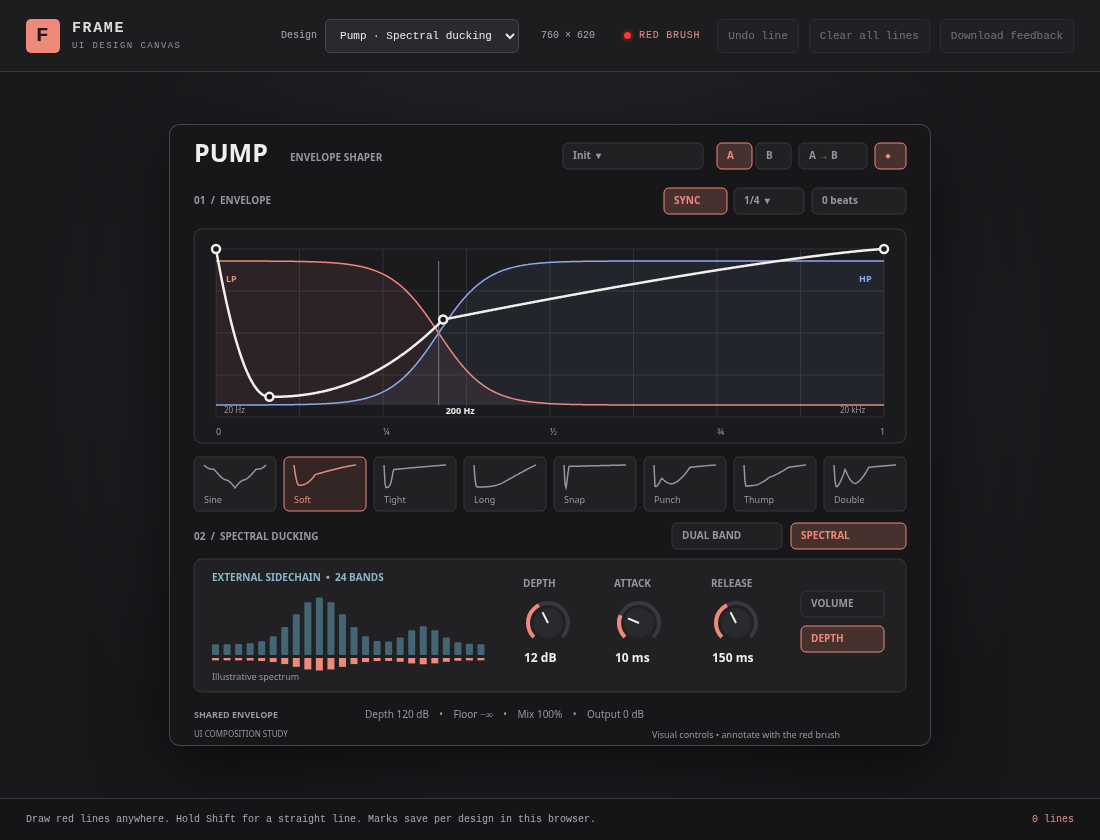
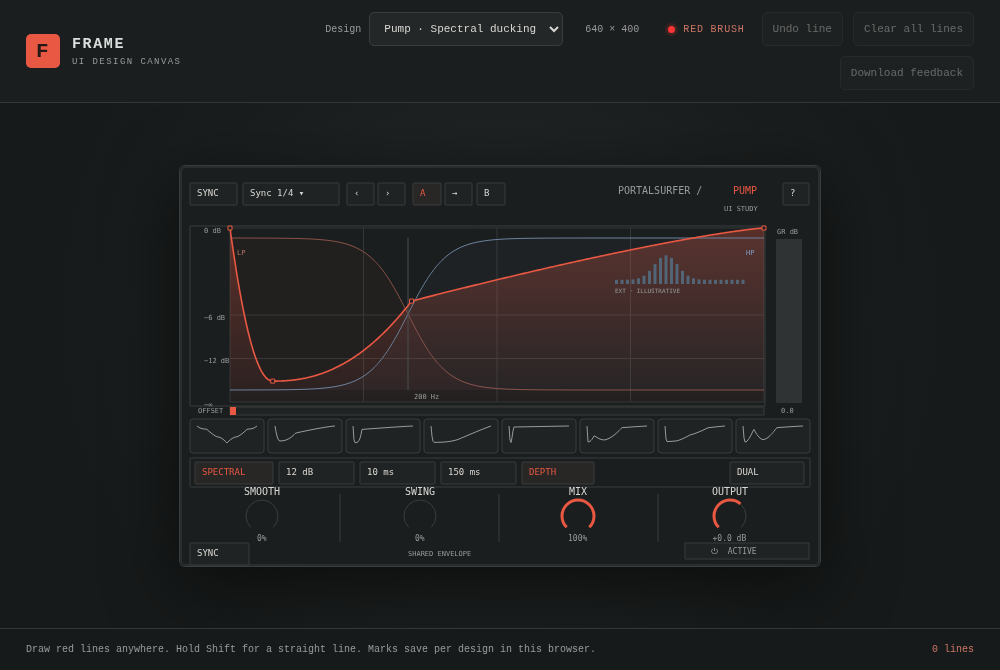
Match Pump reference theme with compact dual-band controls

diff --git a/frame-standalone.html b/frame-standalone.html
@@ -4,41 +4,41 @@
   <meta charset="utf-8">
   <meta name="viewport" content="width=device-width, initial-scale=1">
   <title>Frame — UI design canvas</title>
-  <style>:root { font-family: "SFMono-Regular", Consolas, "Liberation Mono", monospace; color: #d8dfdc; background: #151517; }
+  <style>:root { font-family: "SFMono-Regular", Consolas, "Liberation Mono", monospace; color: #d8dfdc; background: #171a1a; }
 * { box-sizing: border-box; }
 html, body { margin: 0; min-height: 100%; }
 button, select { font: inherit; }
 .app { min-height: 100vh; display: flex; flex-direction: column; }
-.topbar { min-height: 72px; display: flex; align-items: center; justify-content: space-between; gap: 20px; padding: 12px 26px; border-bottom: 1px solid #37373c; background: #1d1d20; }
+.topbar { min-height: 72px; display: flex; align-items: center; justify-content: space-between; gap: 20px; padding: 12px 26px; border-bottom: 1px solid #333737; background: #1b1e1e; }
 .brand, .tools { display: flex; align-items: center; }
 .brand { gap: 12px; white-space: nowrap; letter-spacing: .1em; }
-.brand-mark { display: grid; place-items: center; width: 34px; height: 34px; border-radius: 5px; background: #ef897a; color: #241918; font-size: 21px; font-weight: 700; }
+.brand-mark { display: grid; place-items: center; width: 34px; height: 34px; border-radius: 5px; background: #e95843; color: #241918; font-size: 21px; font-weight: 700; }
 .brand strong { display: block; font-size: 15px; }
-.brand small { display: block; margin-top: 4px; color: #93939b; font-size: 9px; letter-spacing: .16em; }
+.brand small { display: block; margin-top: 4px; color: #999b9a; font-size: 9px; letter-spacing: .16em; }
 .tools { gap: 10px; flex-wrap: wrap; justify-content: flex-end; }
-.design-choice, .design-size { color: #aaaab2; font-size: 10px; white-space: nowrap; }
+.design-choice, .design-size { color: #999b9a; font-size: 10px; white-space: nowrap; }
 .design-choice { display: flex; align-items: center; gap: 8px; }
 .design-size { min-width: 78px; text-align: center; }
-select, .tools button { min-height: 34px; padding: 7px 10px; border: 1px solid #45454c; border-radius: 5px; background: #29292e; color: #eeeae6; font-size: 11px; }
+select, .tools button { min-height: 34px; padding: 7px 10px; border: 1px solid #3a3d3d; border-radius: 5px; background: #242727; color: #d8d7d3; font-size: 11px; }
 select { min-width: 142px; cursor: pointer; }
 .tools button { cursor: pointer; }
-.tools button:hover:not(:disabled), select:hover { background: #35353b; border-color: #ef897a; }
+.tools button:hover:not(:disabled), select:hover { background: #303333; border-color: #e95843; }
 .tools button:disabled { opacity: .4; cursor: default; }
-.brush-status { display: flex; align-items: center; gap: 8px; margin: 0 7px; color: #e39187; font-size: 10px; white-space: nowrap; letter-spacing: .08em; }
+.brush-status { display: flex; align-items: center; gap: 8px; margin: 0 7px; color: #cc7666; font-size: 10px; white-space: nowrap; letter-spacing: .08em; }
 .red-dot { width: 7px; height: 7px; border-radius: 50%; background: #ff3434; box-shadow: 0 0 0 3px #ff343425; }
-.stage { position: relative; display: flex; align-items: center; justify-content: center; flex: 1; min-height: 400px; padding: 30px; background: radial-gradient(circle at 50% 40%, #29292e, #18181b 75%); overflow: hidden; }
-.board { position: relative; flex: none; background: #202024; box-shadow: 0 0 0 1px #45454c, 0 18px 70px #0009; overflow: hidden; }
+.stage { position: relative; display: flex; align-items: center; justify-content: center; flex: 1; min-height: 400px; padding: 30px; background: radial-gradient(circle at 50% 40%, #242727, #171a1a 75%); overflow: hidden; }
+.board { position: relative; flex: none; background: #1b1e1e; box-shadow: 0 0 0 1px #3a3d3d, 0 18px 70px #0009; overflow: hidden; }
 .design, .brush { position: absolute; display: block; inset: 0; width: 100%; height: 100%; }
 .design { pointer-events: none; user-select: none; }
 .brush { z-index: 2; cursor: crosshair; touch-action: none; user-select: none; }
 .brush path { fill: none; stroke: #ff3434; stroke-width: 3; stroke-linecap: round; stroke-linejoin: round; }
-footer { min-height: 42px; display: flex; align-items: center; justify-content: space-between; gap: 16px; padding: 8px 26px; border-top: 1px solid #37373c; color: #aaaab2; font-size: 10px; line-height: 1.4; }
-#mark-count { color: #e39187; white-space: nowrap; }
+footer { min-height: 42px; display: flex; align-items: center; justify-content: space-between; gap: 16px; padding: 8px 26px; border-top: 1px solid #333737; color: #999b9a; font-size: 10px; line-height: 1.4; }
+#mark-count { color: #cc7666; white-space: nowrap; }
 @media (max-width: 920px) { .topbar { align-items: flex-start; flex-direction: column; } .tools { justify-content: flex-start; } }
 @media (max-width: 600px) { .topbar { padding: 13px; } .stage { min-height: 320px; padding: 15px; } footer { padding: 8px 13px; } }
 
-.board { border-radius: 10px; }
-button:focus-visible, select:focus-visible { outline: 2px solid #ef897a; outline-offset: 3px; }
+.board { border-radius: 5px; }
+button:focus-visible, select:focus-visible { outline: 2px solid #e95843; outline-offset: 3px; }
 </style>
   
   
@@ -85,45 +85,52 @@ button:focus-visible, select:focus-visible { outline: 2px solid #ef897a; outline
   window.Frame = {register, designs};
 })();
 </script>
-<script>// Pump composition study. Canvas controls are review artwork; use Frame's brush for feedback.
+<script>// Pump composition study; Frame's brush is the interaction surface.
 (() => {
-  const C = {bg:'#171719',panel:'#212124',line:'#39393d',muted:'#96969f',text:'#f1efec',accent:'#ef897a',blue:'#8cb7c9'};
-  function rect(c,x,y,w,h,r=8,fill=C.panel,stroke=C.line){c.beginPath();c.roundRect(x,y,w,h,r);c.fillStyle=fill;c.fill();if(stroke){c.strokeStyle=stroke;c.lineWidth=1;c.stroke();}}
-  function text(c,t,x,y,size=12,color=C.text,weight=400){c.fillStyle=color;c.font=`${weight} ${size}px system-ui`;c.textBaseline='middle';c.fillText(t,x,y);}
-  function pill(c,t,x,y,w,active=false){rect(c,x,y,w,26,5,active?'#47312f':C.panel,active?C.accent:C.line);text(c,t,x+10,y+13,10,active?C.accent:C.muted,600);}
-  function knob(c,label,value,x,y,a=.7){text(c,label,x-25,y-39,10,C.muted,600);c.strokeStyle=C.line;c.lineWidth=4;c.beginPath();c.arc(x,y,20,.75*Math.PI,2.25*Math.PI);c.stroke();c.strokeStyle=C.accent;c.beginPath();c.arc(x,y,20,.75*Math.PI,(.75+1.5*a)*Math.PI);c.stroke();c.fillStyle='#29292e';c.beginPath();c.arc(x,y,15,0,Math.PI*2);c.fill();c.strokeStyle=C.text;c.lineWidth=2;c.beginPath();c.moveTo(x,y);c.lineTo(x+12*Math.cos((.75+1.5*a)*Math.PI),y+12*Math.sin((.75+1.5*a)*Math.PI));c.stroke();text(c,value,x-24,y+36,12,C.text,600);}
-  function slider(c,label,value,x,y,w,color){
-    text(c,label,x,y-23,10,color,650);text(c,Math.round(value*100)+'%',x+w-32,y-23,11,C.text,650);
-    rect(c,x,y-3,w,6,3,'#39393f',null);rect(c,x,y-3,w*value,6,3,color,null);
-    rect(c,x+value*w-5,y-9,10,18,4,C.text,color);
-    text(c,'0',x,y+19,8,C.muted);text(c,'100',x+w-17,y+19,8,C.muted);
-  }
+  const C={bg:'#1b1e1e',panel:'#202323',line:'#3a3d3d',muted:'#999b9a',text:'#d8d7d3',accent:'#e95843',blue:'#809ec6'};
+  function rect(c,x,y,w,h,r=2,fill=C.panel,stroke=C.line){c.beginPath();c.roundRect(x,y,w,h,r);c.fillStyle=fill;c.fill();if(stroke){c.strokeStyle=stroke;c.lineWidth=1;c.stroke();}}
+  function text(c,t,x,y,size=10,color=C.text,weight=400){c.fillStyle=color;c.font=`${weight} ${size}px ui-monospace, SFMono-Regular, monospace`;c.textBaseline='middle';c.fillText(t,x,y);}
+  function button(c,t,x,y,w,active=false){rect(c,x,y,w,22,1,active?'#282725':C.panel);text(c,t,x+7,y+11,9,active?C.accent:C.text);}
+  function knob(c,label,value,x,y,a=0){text(c,label,x-label.length*3,y-24,10);c.strokeStyle=C.line;c.lineWidth=1;c.beginPath();c.arc(x,y,16,.75*Math.PI,2.25*Math.PI);c.stroke();if(a>0){c.strokeStyle=C.accent;c.lineWidth=3;c.beginPath();c.arc(x,y,16,.75*Math.PI,(.75+1.5*a)*Math.PI);c.stroke();}text(c,value,x-value.length*2.5,y+23,8,C.muted);}
+  function mixRow(c,label,x,y,value,color){text(c,label,x,y,9,color,600);rect(c,x+23,y-2,118,4,2,'#353838',null);if(value>0)rect(c,x+23,y-2,118*value,4,2,color,null);text(c,Math.round(value*100)+'%',x+149,y,8);rect(c,x+183,y-6,30,12,1,C.panel);text(c,'SOLO',x+186,y,6,C.muted);}
   const shapes=[["Sine", [[0.0, 1.0], [0.16, 0.82], [0.34, 0.36], [0.5, 0.0], [0.66, 0.36], [0.84, 0.82], [1.0, 1.0]], [-0.55, -0.1, 0.25, -0.25, 0.1, 0.55]], ["Soft", [[0.0, 1.0], [0.08, 0.12], [0.34, 0.58], [1.0, 1.0]], [-0.35, 0.42, -0.08]], ["Tight", [[0.0, 1.0], [0.035, 0.02], [0.15, 0.8], [1.0, 1.0]], [-0.58, 0.72, -0.04]], ["Long", [[0.0, 1.0], [0.05, 0.04], [0.46, 0.22], [1.0, 1.0]], [-0.48, 0.58, -0.02]], ["Snap", [[0.0, 1.0], [0.012, 0.22], [0.03, 0.0], [0.075, 0.94], [1.0, 1.0]], [-0.08, 0.02, 0.12, 0.0]], ["Punch", [[0.0, 1.0], [0.02, 0.06], [0.12, 0.44], [0.28, 0.18], [0.58, 0.9], [1.0, 1.0]], [-0.52, 0.3, -0.24, 0.22, -0.04]], ["Thump", [[0.0, 1.0], [0.03, 0.08], [0.18, 0.12], [0.42, 0.48], [0.72, 0.9], [1.0, 1.0]], [-0.35, 0.05, 0.12, 0.08, -0.02]], ["Double", [[0.0, 1.0], [0.04, 0.05], [0.18, 0.82], [0.34, 0.2], [0.56, 0.9], [1.0, 1.0]], [-0.48, 0.18, -0.28, 0.2, -0.05]]];
-  function sample(shape,x){const nodes=shape[1], ts=shape[2];let i=0;while(i<nodes.length-2&&x>nodes[i+1][0])i++;const l=nodes[i],r=nodes[i+1];let t=Math.max(0,Math.min(1,(x-l[0])/(r[0]-l[0])));const tension=ts[i]||0; const power=1+Math.abs(tension)*3; t=tension>=0?Math.pow(t,power):1-Math.pow(1-t,power);return l[1]+(r[1]-l[1])*t;}
+  function sample(shape,x){const n=shape[1],ts=shape[2];let i=0;while(i<n.length-2&&x>n[i+1][0])i++;const l=n[i],r=n[i+1];let t=Math.max(0,Math.min(1,(x-l[0])/(r[0]-l[0])));const tension=ts[i]||0,power=1+Math.abs(tension)*3;t=tension>=0?Math.pow(t,power):1-Math.pow(1-t,power);return l[1]+(r[1]-l[1])*t;}
   function curve(c,shape,x,y,w,h){c.beginPath();for(let i=0;i<=w;i++){const yy=y+(1-sample(shape,i/w))*h;i?c.lineTo(x+i,yy):c.moveTo(x,yy);}c.stroke();}
-  function crossover(c,x,y,w,h,hz=200,slope=24){
-    const low=C.accent,high='#8caaeb';
-    const px=x,py=y+12,pw=w,ph=h-24;
-    const cutoff=Math.tan(Math.PI*hz/48000);
-    const magnitude=(t,band)=>{const f=20*Math.pow(1000,t),r=Math.tan(Math.PI*f/48000)/cutoff,p=Math.pow(r,slope===12?2:4);return band?p/(1+p):1/(1+p);};
+  function crossover(c,x,y,w,h){
+    const py=y+10,ph=h-22,cutoff=Math.tan(Math.PI*200/48000);
     for(let band=0;band<2;band++){
-      c.beginPath();c.moveTo(px,py+ph);
-      for(let i=0;i<=pw;i++)c.lineTo(px+i,py+(1-magnitude(i/pw,band))*ph);
-      c.lineTo(px+pw,py+ph);c.closePath();c.fillStyle=band?'rgba(140,170,235,.08)':'rgba(239,137,122,.08)';c.fill();
-      c.beginPath();for(let i=0;i<=pw;i++){const yy=py+(1-magnitude(i/pw,band))*ph;i?c.lineTo(px+i,yy):c.moveTo(px+i,yy);}c.strokeStyle=band?high:low;c.lineWidth=1.5;c.stroke();
+      const points=[];for(let i=0;i<=w;i++){const f=20*Math.pow(1000,i/w),r=Math.tan(Math.PI*f/48000)/cutoff,p=Math.pow(r,4),gain=band?p/(1+p):1/(1+p);points.push([x+i,py+(1-gain)*ph]);}
+      c.beginPath();c.moveTo(x,py+ph);for(const q of points)c.lineTo(...q);c.lineTo(x+w,py+ph);c.closePath();c.fillStyle=band?'rgba(128,158,198,.04)':'rgba(233,88,67,.04)';c.fill();
+      c.beginPath();for(let i=0;i<points.length;i++)i?c.lineTo(...points[i]):c.moveTo(...points[i]);c.strokeStyle=band?'#6b819d':'#8a5148';c.lineWidth=1;c.stroke();
     }
-    const marker=px+Math.log(hz/20)/Math.log(1000)*pw;
-    c.strokeStyle='#777780';c.lineWidth=1;c.beginPath();c.moveTo(marker,py);c.lineTo(marker,py+ph);c.stroke();
-    text(c,'LP',x+10,y+30,9,low,650);text(c,'HP',x+w-25,y+30,9,high,650);text(c,'20 Hz',x+8,y+h-6,8,C.muted);text(c,hz+' Hz',Math.max(x+48,Math.min(x+w-90,marker+7)),y+h-6,9,C.text,600);text(c,'20 kHz',x+w-44,y+h-6,8,C.muted);
+    const marker=x+w/3;c.strokeStyle='#4a4f4e';c.beginPath();c.moveTo(marker,py);c.lineTo(marker,py+ph);c.stroke();text(c,'LP',x+7,y+25,7,'#b67668');text(c,'HP',x+w-18,y+25,7,C.blue);text(c,'200 Hz',marker+6,y+h-5,7,C.muted);
   }
-  function shell(c,mode){c.fillStyle=C.bg;c.fillRect(0,0,760,620);text(c,'PUMP',24,30,25,C.text,750);text(c,'ENVELOPE SHAPER',120,33,10,C.muted,600);pill(c,'Init  ▾',393,18,140);pill(c,'A',547,18,35,true);pill(c,'B',586,18,35);pill(c,'A → B',629,18,68);pill(c,'●',705,18,31,true);text(c,'01  /  ENVELOPE',24,76,10,C.muted,600);pill(c,'SYNC',494,63,63,true);pill(c,'1/4  ▾',564,63,70);pill(c,'0 beats',642,63,94);
-    rect(c,24,104,712,214,8,'#1b1b1e');const x=46,y=124,w=668,h=168;c.strokeStyle='#303035';c.lineWidth=1;for(let i=0;i<=8;i++){c.beginPath();c.moveTo(x+w*i/8,y);c.lineTo(x+w*i/8,y+h);c.stroke();}for(let i=0;i<=4;i++){c.beginPath();c.moveTo(x,y+h*i/4);c.lineTo(x+w,y+h*i/4);c.stroke();}crossover(c,x,y,w,h);c.strokeStyle=C.text;c.lineWidth=2.5;curve(c,shapes[1],x,y,w,h);for(const n of shapes[1][1]){c.fillStyle=C.bg;c.beginPath();c.arc(x+n[0]*w,y+(1-n[1])*h,4,0,Math.PI*2);c.fill();c.stroke();}text(c,'0',x,307,9,C.muted);text(c,'¼',x+w/4,307,9,C.muted);text(c,'½',x+w/2,307,9,C.muted);text(c,'¾',x+w*3/4,307,9,C.muted);text(c,'1',x+w-4,307,9,C.muted);
-    shapes.forEach((s,i)=>{const sx=24+i*90;rect(c,sx,332,82,54,5,i===1?'#332625':C.panel,i===1?C.accent:C.line);c.strokeStyle=i===1?C.accent:C.muted;c.lineWidth=1.5;curve(c,s,sx+10,340,62,23);text(c,s[0],sx+10,375,9,i===1?C.accent:C.muted);});
-    text(c,mode==='dual'?'02  /  DUAL BAND':'02  /  SPECTRAL DUCKING',24,412,10,C.muted,600);pill(c,'DUAL BAND',502,398,110,mode==='dual');pill(c,'SPECTRAL',621,398,115,mode==='spectral');
-    text(c,'SHARED ENVELOPE',24,590,9,C.muted,600);text(c,'Depth 120 dB    •    Floor −∞    •    Mix 100%    •    Output 0 dB',195,590,10,C.muted);text(c,'UI COMPOSITION STUDY',24,610,8,C.muted);text(c,'Visual controls • annotate with the red brush',482,610,9,C.muted);
+  function shell(c,mode){
+    c.fillStyle=C.bg;c.fillRect(0,0,640,400);rect(c,1,1,638,398,5,C.bg,C.line);
+    button(c,'SYNC',10,17,47);button(c,'Sync 1/4 ▾',63,17,96);button(c,'‹',167,17,27);button(c,'›',198,17,27);button(c,'A',233,17,28,true);button(c,'→',265,17,27);button(c,'B',297,17,28);
+    text(c,'PORTALSURFER /',438,25,10,C.muted);text(c,'PUMP',553,25,10,C.accent);text(c,'UI STUDY',544,43,7,C.muted);button(c,'?',603,17,26);
+    const x=50,y=62,w=534,h=174;rect(c,10,60,575,180,0,C.bg,C.line);
+    c.strokeStyle='#333737';c.lineWidth=1;for(let i=0;i<=4;i++){c.beginPath();c.moveTo(x+w*i/4,y);c.lineTo(x+w*i/4,y+h);c.stroke();}for(const level of [0,.5,.75,1]){c.beginPath();c.moveTo(x,y+h*level);c.lineTo(x+w,y+h*level);c.stroke();}
+    const gradient=c.createLinearGradient(0,y,0,y+h);gradient.addColorStop(0,'rgba(233,88,67,.30)');gradient.addColorStop(1,'rgba(233,88,67,.03)');c.beginPath();c.moveTo(x,y+h);for(let i=0;i<=w;i++)c.lineTo(x+i,y+(1-sample(shapes[1],i/w))*h);c.lineTo(x+w,y+h);c.closePath();c.fillStyle=gradient;c.fill();
+    crossover(c,x,y,w,h);c.strokeStyle=C.accent;c.lineWidth=1.6;curve(c,shapes[1],x,y,w,h);for(const n of shapes[1][1])rect(c,x+n[0]*w-2,y+(1-n[1])*h-2,4,4,0,C.bg,C.accent);
+    for(const [label,level] of [['0 dB',0],['−6 dB',.5],['−12 dB',.75],['−∞',1]])text(c,label,24,y+level*h+3,7,C.muted);
+    text(c,'OFFSET',18,245,7,C.muted);rect(c,50,241,534,8,0,C.panel);c.fillStyle=C.accent;c.fillRect(50,241,6,8);
+    text(c,'GR dB',597,66,7,C.muted);rect(c,596,73,26,164,0,'#303333',null);text(c,'0.0',601,245,7,C.muted);
+    shapes.forEach((s,i)=>{const sx=10+i*78;rect(c,sx,253,74,34,3,C.panel);c.strokeStyle=C.muted;c.lineWidth=1;curve(c,s,sx+7,260,60,17);});
+    rect(c,10,292,620,29,1,C.bg,C.line);
+    if(mode==='dual'){
+      button(c,'DUAL',15,296,43,true);button(c,'200 Hz',64,296,78);button(c,'24 dB/oct',148,296,74);
+      mixRow(c,'LP',235,301,1,C.accent);mixRow(c,'HP',235,314,1,C.blue);button(c,'SPECTRAL',544,296,80);
+    }else{
+      button(c,'SPECTRAL',15,296,78,true);button(c,'12 dB',99,296,75);button(c,'10 ms',180,296,75);button(c,'150 ms',261,296,75);button(c,'DEPTH',342,296,72,true);button(c,'DUAL',550,296,74);
+      for(let i=0;i<24;i++){const v=.12+.7*Math.exp(-Math.pow((i-9)/3,2));c.fillStyle='#526576';c.fillRect(435+i*5.5,83+35*(1-v),3,35*v);}text(c,'EXT · ILLUSTRATIVE',435,125,6,C.muted);
+    }
+    for(const dx of [160,319,478]){c.strokeStyle=C.line;c.beginPath();c.moveTo(dx,328);c.lineTo(dx,376);c.stroke();}
+    knob(c,'SMOOTH','0%',82,350);knob(c,'SWING','0%',240,350);knob(c,'MIX','100%',398,350,1);knob(c,'OUTPUT','+0.0 dB',550,350,.65);
+    button(c,'SYNC',10,377,59);text(c,'SHARED ENVELOPE',228,388,7,C.muted);rect(c,505,377,124,16,0,C.panel);text(c,'⏻  ACTIVE',531,386,8,C.muted);
   }
-  Frame.register({id:'pump',name:'Pump · Dual band',width:760,height:620,paint(c){shell(c,'dual');rect(c,24,434,712,133);text(c,'LOW',43,456,10,C.accent,700);text(c,'HIGH',633,456,10,'#8caaeb',700);text(c,'One crossover · minimum phase · zero latency',43,544,10,C.muted);pill(c,'SOLO',41,476,54);slider(c,'LP MIX',1,115,498,106,C.accent);knob(c,'CROSSOVER','200 Hz',296,498,.34);pill(c,'12',356,474,38);pill(c,'24 dB/oct',400,474,78,true);slider(c,'HP MIX',1,499,498,106,'#8caaeb');pill(c,'SOLO',633,476,54);}});
-  Frame.register({id:'pump-spectral',name:'Pump · Spectral ducking',width:760,height:620,paint(c){shell(c,'spectral');rect(c,24,434,712,133);text(c,'EXTERNAL SIDECHAIN  •  24 BANDS',42,453,10,C.blue,650);const x=42,y=470,w=277,h=60;for(let i=0;i<24;i++){const v=.18+.78*Math.exp(-Math.pow((i-9)/3,2))+.3*Math.exp(-Math.pow((i-18)/2,2));rect(c,x+i*w/24,y+h-v*h,7,v*h,1,'#436574',null);c.fillStyle=C.accent;c.fillRect(x+i*w/24,y+h+3,7,Math.min(13,v*13));}text(c,'Illustrative spectrum',42,552,9,C.muted);knob(c,'DEPTH','12 dB',378,498,.4);knob(c,'ATTACK','10 ms',469,498,.25);knob(c,'RELEASE','150 ms',566,498,.4);pill(c,'VOLUME',631,466,83);pill(c,'DEPTH',631,501,83,true);}});
+  Frame.register({id:'pump',name:'Pump · Dual band',width:640,height:400,paint(c){shell(c,'dual');}});
+  Frame.register({id:'pump-spectral',name:'Pump · Spectral ducking',width:640,height:400,paint(c){shell(c,'spectral');}});
 })();
 </script>
 <script>// A neutral starting point for a new application interface.

diff --git a/examples/pump.js b/examples/pump.js
@@ -1,40 +1,47 @@
-// Pump composition study. Canvas controls are review artwork; use Frame's brush for feedback.
+// Pump composition study; Frame's brush is the interaction surface.
 (() => {
-  const C = {bg:'#171719',panel:'#212124',line:'#39393d',muted:'#96969f',text:'#f1efec',accent:'#ef897a',blue:'#8cb7c9'};
-  function rect(c,x,y,w,h,r=8,fill=C.panel,stroke=C.line){c.beginPath();c.roundRect(x,y,w,h,r);c.fillStyle=fill;c.fill();if(stroke){c.strokeStyle=stroke;c.lineWidth=1;c.stroke();}}
-  function text(c,t,x,y,size=12,color=C.text,weight=400){c.fillStyle=color;c.font=`${weight} ${size}px system-ui`;c.textBaseline='middle';c.fillText(t,x,y);}
-  function pill(c,t,x,y,w,active=false){rect(c,x,y,w,26,5,active?'#47312f':C.panel,active?C.accent:C.line);text(c,t,x+10,y+13,10,active?C.accent:C.muted,600);}
-  function knob(c,label,value,x,y,a=.7){text(c,label,x-25,y-39,10,C.muted,600);c.strokeStyle=C.line;c.lineWidth=4;c.beginPath();c.arc(x,y,20,.75*Math.PI,2.25*Math.PI);c.stroke();c.strokeStyle=C.accent;c.beginPath();c.arc(x,y,20,.75*Math.PI,(.75+1.5*a)*Math.PI);c.stroke();c.fillStyle='#29292e';c.beginPath();c.arc(x,y,15,0,Math.PI*2);c.fill();c.strokeStyle=C.text;c.lineWidth=2;c.beginPath();c.moveTo(x,y);c.lineTo(x+12*Math.cos((.75+1.5*a)*Math.PI),y+12*Math.sin((.75+1.5*a)*Math.PI));c.stroke();text(c,value,x-24,y+36,12,C.text,600);}
-  function slider(c,label,value,x,y,w,color){
-    text(c,label,x,y-23,10,color,650);text(c,Math.round(value*100)+'%',x+w-32,y-23,11,C.text,650);
-    rect(c,x,y-3,w,6,3,'#39393f',null);rect(c,x,y-3,w*value,6,3,color,null);
-    rect(c,x+value*w-5,y-9,10,18,4,C.text,color);
-    text(c,'0',x,y+19,8,C.muted);text(c,'100',x+w-17,y+19,8,C.muted);
-  }
+  const C={bg:'#1b1e1e',panel:'#202323',line:'#3a3d3d',muted:'#999b9a',text:'#d8d7d3',accent:'#e95843',blue:'#809ec6'};
+  function rect(c,x,y,w,h,r=2,fill=C.panel,stroke=C.line){c.beginPath();c.roundRect(x,y,w,h,r);c.fillStyle=fill;c.fill();if(stroke){c.strokeStyle=stroke;c.lineWidth=1;c.stroke();}}
+  function text(c,t,x,y,size=10,color=C.text,weight=400){c.fillStyle=color;c.font=`${weight} ${size}px ui-monospace, SFMono-Regular, monospace`;c.textBaseline='middle';c.fillText(t,x,y);}
+  function button(c,t,x,y,w,active=false){rect(c,x,y,w,22,1,active?'#282725':C.panel);text(c,t,x+7,y+11,9,active?C.accent:C.text);}
+  function knob(c,label,value,x,y,a=0){text(c,label,x-label.length*3,y-24,10);c.strokeStyle=C.line;c.lineWidth=1;c.beginPath();c.arc(x,y,16,.75*Math.PI,2.25*Math.PI);c.stroke();if(a>0){c.strokeStyle=C.accent;c.lineWidth=3;c.beginPath();c.arc(x,y,16,.75*Math.PI,(.75+1.5*a)*Math.PI);c.stroke();}text(c,value,x-value.length*2.5,y+23,8,C.muted);}
+  function mixRow(c,label,x,y,value,color){text(c,label,x,y,9,color,600);rect(c,x+23,y-2,118,4,2,'#353838',null);if(value>0)rect(c,x+23,y-2,118*value,4,2,color,null);text(c,Math.round(value*100)+'%',x+149,y,8);rect(c,x+183,y-6,30,12,1,C.panel);text(c,'SOLO',x+186,y,6,C.muted);}
   const shapes=[["Sine", [[0.0, 1.0], [0.16, 0.82], [0.34, 0.36], [0.5, 0.0], [0.66, 0.36], [0.84, 0.82], [1.0, 1.0]], [-0.55, -0.1, 0.25, -0.25, 0.1, 0.55]], ["Soft", [[0.0, 1.0], [0.08, 0.12], [0.34, 0.58], [1.0, 1.0]], [-0.35, 0.42, -0.08]], ["Tight", [[0.0, 1.0], [0.035, 0.02], [0.15, 0.8], [1.0, 1.0]], [-0.58, 0.72, -0.04]], ["Long", [[0.0, 1.0], [0.05, 0.04], [0.46, 0.22], [1.0, 1.0]], [-0.48, 0.58, -0.02]], ["Snap", [[0.0, 1.0], [0.012, 0.22], [0.03, 0.0], [0.075, 0.94], [1.0, 1.0]], [-0.08, 0.02, 0.12, 0.0]], ["Punch", [[0.0, 1.0], [0.02, 0.06], [0.12, 0.44], [0.28, 0.18], [0.58, 0.9], [1.0, 1.0]], [-0.52, 0.3, -0.24, 0.22, -0.04]], ["Thump", [[0.0, 1.0], [0.03, 0.08], [0.18, 0.12], [0.42, 0.48], [0.72, 0.9], [1.0, 1.0]], [-0.35, 0.05, 0.12, 0.08, -0.02]], ["Double", [[0.0, 1.0], [0.04, 0.05], [0.18, 0.82], [0.34, 0.2], [0.56, 0.9], [1.0, 1.0]], [-0.48, 0.18, -0.28, 0.2, -0.05]]];
-  function sample(shape,x){const nodes=shape[1], ts=shape[2];let i=0;while(i<nodes.length-2&&x>nodes[i+1][0])i++;const l=nodes[i],r=nodes[i+1];let t=Math.max(0,Math.min(1,(x-l[0])/(r[0]-l[0])));const tension=ts[i]||0; const power=1+Math.abs(tension)*3; t=tension>=0?Math.pow(t,power):1-Math.pow(1-t,power);return l[1]+(r[1]-l[1])*t;}
+  function sample(shape,x){const n=shape[1],ts=shape[2];let i=0;while(i<n.length-2&&x>n[i+1][0])i++;const l=n[i],r=n[i+1];let t=Math.max(0,Math.min(1,(x-l[0])/(r[0]-l[0])));const tension=ts[i]||0,power=1+Math.abs(tension)*3;t=tension>=0?Math.pow(t,power):1-Math.pow(1-t,power);return l[1]+(r[1]-l[1])*t;}
   function curve(c,shape,x,y,w,h){c.beginPath();for(let i=0;i<=w;i++){const yy=y+(1-sample(shape,i/w))*h;i?c.lineTo(x+i,yy):c.moveTo(x,yy);}c.stroke();}
-  function crossover(c,x,y,w,h,hz=200,slope=24){
-    const low=C.accent,high='#8caaeb';
-    const px=x,py=y+12,pw=w,ph=h-24;
-    const cutoff=Math.tan(Math.PI*hz/48000);
-    const magnitude=(t,band)=>{const f=20*Math.pow(1000,t),r=Math.tan(Math.PI*f/48000)/cutoff,p=Math.pow(r,slope===12?2:4);return band?p/(1+p):1/(1+p);};
+  function crossover(c,x,y,w,h){
+    const py=y+10,ph=h-22,cutoff=Math.tan(Math.PI*200/48000);
     for(let band=0;band<2;band++){
-      c.beginPath();c.moveTo(px,py+ph);
-      for(let i=0;i<=pw;i++)c.lineTo(px+i,py+(1-magnitude(i/pw,band))*ph);
-      c.lineTo(px+pw,py+ph);c.closePath();c.fillStyle=band?'rgba(140,170,235,.08)':'rgba(239,137,122,.08)';c.fill();
-      c.beginPath();for(let i=0;i<=pw;i++){const yy=py+(1-magnitude(i/pw,band))*ph;i?c.lineTo(px+i,yy):c.moveTo(px+i,yy);}c.strokeStyle=band?high:low;c.lineWidth=1.5;c.stroke();
+      const points=[];for(let i=0;i<=w;i++){const f=20*Math.pow(1000,i/w),r=Math.tan(Math.PI*f/48000)/cutoff,p=Math.pow(r,4),gain=band?p/(1+p):1/(1+p);points.push([x+i,py+(1-gain)*ph]);}
+      c.beginPath();c.moveTo(x,py+ph);for(const q of points)c.lineTo(...q);c.lineTo(x+w,py+ph);c.closePath();c.fillStyle=band?'rgba(128,158,198,.04)':'rgba(233,88,67,.04)';c.fill();
+      c.beginPath();for(let i=0;i<points.length;i++)i?c.lineTo(...points[i]):c.moveTo(...points[i]);c.strokeStyle=band?'#6b819d':'#8a5148';c.lineWidth=1;c.stroke();
     }
-    const marker=px+Math.log(hz/20)/Math.log(1000)*pw;
-    c.strokeStyle='#777780';c.lineWidth=1;c.beginPath();c.moveTo(marker,py);c.lineTo(marker,py+ph);c.stroke();
-    text(c,'LP',x+10,y+30,9,low,650);text(c,'HP',x+w-25,y+30,9,high,650);text(c,'20 Hz',x+8,y+h-6,8,C.muted);text(c,hz+' Hz',Math.max(x+48,Math.min(x+w-90,marker+7)),y+h-6,9,C.text,600);text(c,'20 kHz',x+w-44,y+h-6,8,C.muted);
+    const marker=x+w/3;c.strokeStyle='#4a4f4e';c.beginPath();c.moveTo(marker,py);c.lineTo(marker,py+ph);c.stroke();text(c,'LP',x+7,y+25,7,'#b67668');text(c,'HP',x+w-18,y+25,7,C.blue);text(c,'200 Hz',marker+6,y+h-5,7,C.muted);
   }
-  function shell(c,mode){c.fillStyle=C.bg;c.fillRect(0,0,760,620);text(c,'PUMP',24,30,25,C.text,750);text(c,'ENVELOPE SHAPER',120,33,10,C.muted,600);pill(c,'Init  ▾',393,18,140);pill(c,'A',547,18,35,true);pill(c,'B',586,18,35);pill(c,'A → B',629,18,68);pill(c,'●',705,18,31,true);text(c,'01  /  ENVELOPE',24,76,10,C.muted,600);pill(c,'SYNC',494,63,63,true);pill(c,'1/4  ▾',564,63,70);pill(c,'0 beats',642,63,94);
-    rect(c,24,104,712,214,8,'#1b1b1e');const x=46,y=124,w=668,h=168;c.strokeStyle='#303035';c.lineWidth=1;for(let i=0;i<=8;i++){c.beginPath();c.moveTo(x+w*i/8,y);c.lineTo(x+w*i/8,y+h);c.stroke();}for(let i=0;i<=4;i++){c.beginPath();c.moveTo(x,y+h*i/4);c.lineTo(x+w,y+h*i/4);c.stroke();}crossover(c,x,y,w,h);c.strokeStyle=C.text;c.lineWidth=2.5;curve(c,shapes[1],x,y,w,h);for(const n of shapes[1][1]){c.fillStyle=C.bg;c.beginPath();c.arc(x+n[0]*w,y+(1-n[1])*h,4,0,Math.PI*2);c.fill();c.stroke();}text(c,'0',x,307,9,C.muted);text(c,'¼',x+w/4,307,9,C.muted);text(c,'½',x+w/2,307,9,C.muted);text(c,'¾',x+w*3/4,307,9,C.muted);text(c,'1',x+w-4,307,9,C.muted);
-    shapes.forEach((s,i)=>{const sx=24+i*90;rect(c,sx,332,82,54,5,i===1?'#332625':C.panel,i===1?C.accent:C.line);c.strokeStyle=i===1?C.accent:C.muted;c.lineWidth=1.5;curve(c,s,sx+10,340,62,23);text(c,s[0],sx+10,375,9,i===1?C.accent:C.muted);});
-    text(c,mode==='dual'?'02  /  DUAL BAND':'02  /  SPECTRAL DUCKING',24,412,10,C.muted,600);pill(c,'DUAL BAND',502,398,110,mode==='dual');pill(c,'SPECTRAL',621,398,115,mode==='spectral');
-    text(c,'SHARED ENVELOPE',24,590,9,C.muted,600);text(c,'Depth 120 dB    •    Floor −∞    •    Mix 100%    •    Output 0 dB',195,590,10,C.muted);text(c,'UI COMPOSITION STUDY',24,610,8,C.muted);text(c,'Visual controls • annotate with the red brush',482,610,9,C.muted);
+  function shell(c,mode){
+    c.fillStyle=C.bg;c.fillRect(0,0,640,400);rect(c,1,1,638,398,5,C.bg,C.line);
+    button(c,'SYNC',10,17,47);button(c,'Sync 1/4 ▾',63,17,96);button(c,'‹',167,17,27);button(c,'›',198,17,27);button(c,'A',233,17,28,true);button(c,'→',265,17,27);button(c,'B',297,17,28);
+    text(c,'PORTALSURFER /',438,25,10,C.muted);text(c,'PUMP',553,25,10,C.accent);text(c,'UI STUDY',544,43,7,C.muted);button(c,'?',603,17,26);
+    const x=50,y=62,w=534,h=174;rect(c,10,60,575,180,0,C.bg,C.line);
+    c.strokeStyle='#333737';c.lineWidth=1;for(let i=0;i<=4;i++){c.beginPath();c.moveTo(x+w*i/4,y);c.lineTo(x+w*i/4,y+h);c.stroke();}for(const level of [0,.5,.75,1]){c.beginPath();c.moveTo(x,y+h*level);c.lineTo(x+w,y+h*level);c.stroke();}
+    const gradient=c.createLinearGradient(0,y,0,y+h);gradient.addColorStop(0,'rgba(233,88,67,.30)');gradient.addColorStop(1,'rgba(233,88,67,.03)');c.beginPath();c.moveTo(x,y+h);for(let i=0;i<=w;i++)c.lineTo(x+i,y+(1-sample(shapes[1],i/w))*h);c.lineTo(x+w,y+h);c.closePath();c.fillStyle=gradient;c.fill();
+    crossover(c,x,y,w,h);c.strokeStyle=C.accent;c.lineWidth=1.6;curve(c,shapes[1],x,y,w,h);for(const n of shapes[1][1])rect(c,x+n[0]*w-2,y+(1-n[1])*h-2,4,4,0,C.bg,C.accent);
+    for(const [label,level] of [['0 dB',0],['−6 dB',.5],['−12 dB',.75],['−∞',1]])text(c,label,24,y+level*h+3,7,C.muted);
+    text(c,'OFFSET',18,245,7,C.muted);rect(c,50,241,534,8,0,C.panel);c.fillStyle=C.accent;c.fillRect(50,241,6,8);
+    text(c,'GR dB',597,66,7,C.muted);rect(c,596,73,26,164,0,'#303333',null);text(c,'0.0',601,245,7,C.muted);
+    shapes.forEach((s,i)=>{const sx=10+i*78;rect(c,sx,253,74,34,3,C.panel);c.strokeStyle=C.muted;c.lineWidth=1;curve(c,s,sx+7,260,60,17);});
+    rect(c,10,292,620,29,1,C.bg,C.line);
+    if(mode==='dual'){
+      button(c,'DUAL',15,296,43,true);button(c,'200 Hz',64,296,78);button(c,'24 dB/oct',148,296,74);
+      mixRow(c,'LP',235,301,1,C.accent);mixRow(c,'HP',235,314,1,C.blue);button(c,'SPECTRAL',544,296,80);
+    }else{
+      button(c,'SPECTRAL',15,296,78,true);button(c,'12 dB',99,296,75);button(c,'10 ms',180,296,75);button(c,'150 ms',261,296,75);button(c,'DEPTH',342,296,72,true);button(c,'DUAL',550,296,74);
+      for(let i=0;i<24;i++){const v=.12+.7*Math.exp(-Math.pow((i-9)/3,2));c.fillStyle='#526576';c.fillRect(435+i*5.5,83+35*(1-v),3,35*v);}text(c,'EXT · ILLUSTRATIVE',435,125,6,C.muted);
+    }
+    for(const dx of [160,319,478]){c.strokeStyle=C.line;c.beginPath();c.moveTo(dx,328);c.lineTo(dx,376);c.stroke();}
+    knob(c,'SMOOTH','0%',82,350);knob(c,'SWING','0%',240,350);knob(c,'MIX','100%',398,350,1);knob(c,'OUTPUT','+0.0 dB',550,350,.65);
+    button(c,'SYNC',10,377,59);text(c,'SHARED ENVELOPE',228,388,7,C.muted);rect(c,505,377,124,16,0,C.panel);text(c,'⏻  ACTIVE',531,386,8,C.muted);
   }
-  Frame.register({id:'pump',name:'Pump · Dual band',width:760,height:620,paint(c){shell(c,'dual');rect(c,24,434,712,133);text(c,'LOW',43,456,10,C.accent,700);text(c,'HIGH',633,456,10,'#8caaeb',700);text(c,'One crossover · minimum phase · zero latency',43,544,10,C.muted);pill(c,'SOLO',41,476,54);slider(c,'LP MIX',1,115,498,106,C.accent);knob(c,'CROSSOVER','200 Hz',296,498,.34);pill(c,'12',356,474,38);pill(c,'24 dB/oct',400,474,78,true);slider(c,'HP MIX',1,499,498,106,'#8caaeb');pill(c,'SOLO',633,476,54);}});
-  Frame.register({id:'pump-spectral',name:'Pump · Spectral ducking',width:760,height:620,paint(c){shell(c,'spectral');rect(c,24,434,712,133);text(c,'EXTERNAL SIDECHAIN  •  24 BANDS',42,453,10,C.blue,650);const x=42,y=470,w=277,h=60;for(let i=0;i<24;i++){const v=.18+.78*Math.exp(-Math.pow((i-9)/3,2))+.3*Math.exp(-Math.pow((i-18)/2,2));rect(c,x+i*w/24,y+h-v*h,7,v*h,1,'#436574',null);c.fillStyle=C.accent;c.fillRect(x+i*w/24,y+h+3,7,Math.min(13,v*13));}text(c,'Illustrative spectrum',42,552,9,C.muted);knob(c,'DEPTH','12 dB',378,498,.4);knob(c,'ATTACK','10 ms',469,498,.25);knob(c,'RELEASE','150 ms',566,498,.4);pill(c,'VOLUME',631,466,83);pill(c,'DEPTH',631,501,83,true);}});
+  Frame.register({id:'pump',name:'Pump · Dual band',width:640,height:400,paint(c){shell(c,'dual');}});
+  Frame.register({id:'pump-spectral',name:'Pump · Spectral ducking',width:640,height:400,paint(c){shell(c,'spectral');}});
 })();

diff --git a/style.css b/style.css
@@ -1,35 +1,35 @@
-:root { font-family: "SFMono-Regular", Consolas, "Liberation Mono", monospace; color: #d8dfdc; background: #151517; }
+:root { font-family: "SFMono-Regular", Consolas, "Liberation Mono", monospace; color: #d8dfdc; background: #171a1a; }
 * { box-sizing: border-box; }
 html, body { margin: 0; min-height: 100%; }
 button, select { font: inherit; }
 .app { min-height: 100vh; display: flex; flex-direction: column; }
-.topbar { min-height: 72px; display: flex; align-items: center; justify-content: space-between; gap: 20px; padding: 12px 26px; border-bottom: 1px solid #37373c; background: #1d1d20; }
+.topbar { min-height: 72px; display: flex; align-items: center; justify-content: space-between; gap: 20px; padding: 12px 26px; border-bottom: 1px solid #333737; background: #1b1e1e; }
 .brand, .tools { display: flex; align-items: center; }
 .brand { gap: 12px; white-space: nowrap; letter-spacing: .1em; }
-.brand-mark { display: grid; place-items: center; width: 34px; height: 34px; border-radius: 5px; background: #ef897a; color: #241918; font-size: 21px; font-weight: 700; }
+.brand-mark { display: grid; place-items: center; width: 34px; height: 34px; border-radius: 5px; background: #e95843; color: #241918; font-size: 21px; font-weight: 700; }
 .brand strong { display: block; font-size: 15px; }
-.brand small { display: block; margin-top: 4px; color: #93939b; font-size: 9px; letter-spacing: .16em; }
+.brand small { display: block; margin-top: 4px; color: #999b9a; font-size: 9px; letter-spacing: .16em; }
 .tools { gap: 10px; flex-wrap: wrap; justify-content: flex-end; }
-.design-choice, .design-size { color: #aaaab2; font-size: 10px; white-space: nowrap; }
+.design-choice, .design-size { color: #999b9a; font-size: 10px; white-space: nowrap; }
 .design-choice { display: flex; align-items: center; gap: 8px; }
 .design-size { min-width: 78px; text-align: center; }
-select, .tools button { min-height: 34px; padding: 7px 10px; border: 1px solid #45454c; border-radius: 5px; background: #29292e; color: #eeeae6; font-size: 11px; }
+select, .tools button { min-height: 34px; padding: 7px 10px; border: 1px solid #3a3d3d; border-radius: 5px; background: #242727; color: #d8d7d3; font-size: 11px; }
 select { min-width: 142px; cursor: pointer; }
 .tools button { cursor: pointer; }
-.tools button:hover:not(:disabled), select:hover { background: #35353b; border-color: #ef897a; }
+.tools button:hover:not(:disabled), select:hover { background: #303333; border-color: #e95843; }
 .tools button:disabled { opacity: .4; cursor: default; }
-.brush-status { display: flex; align-items: center; gap: 8px; margin: 0 7px; color: #e39187; font-size: 10px; white-space: nowrap; letter-spacing: .08em; }
+.brush-status { display: flex; align-items: center; gap: 8px; margin: 0 7px; color: #cc7666; font-size: 10px; white-space: nowrap; letter-spacing: .08em; }
 .red-dot { width: 7px; height: 7px; border-radius: 50%; background: #ff3434; box-shadow: 0 0 0 3px #ff343425; }
-.stage { position: relative; display: flex; align-items: center; justify-content: center; flex: 1; min-height: 400px; padding: 30px; background: radial-gradient(circle at 50% 40%, #29292e, #18181b 75%); overflow: hidden; }
-.board { position: relative; flex: none; background: #202024; box-shadow: 0 0 0 1px #45454c, 0 18px 70px #0009; overflow: hidden; }
+.stage { position: relative; display: flex; align-items: center; justify-content: center; flex: 1; min-height: 400px; padding: 30px; background: radial-gradient(circle at 50% 40%, #242727, #171a1a 75%); overflow: hidden; }
+.board { position: relative; flex: none; background: #1b1e1e; box-shadow: 0 0 0 1px #3a3d3d, 0 18px 70px #0009; overflow: hidden; }
 .design, .brush { position: absolute; display: block; inset: 0; width: 100%; height: 100%; }
 .design { pointer-events: none; user-select: none; }
 .brush { z-index: 2; cursor: crosshair; touch-action: none; user-select: none; }
 .brush path { fill: none; stroke: #ff3434; stroke-width: 3; stroke-linecap: round; stroke-linejoin: round; }
-footer { min-height: 42px; display: flex; align-items: center; justify-content: space-between; gap: 16px; padding: 8px 26px; border-top: 1px solid #37373c; color: #aaaab2; font-size: 10px; line-height: 1.4; }
-#mark-count { color: #e39187; white-space: nowrap; }
+footer { min-height: 42px; display: flex; align-items: center; justify-content: space-between; gap: 16px; padding: 8px 26px; border-top: 1px solid #333737; color: #999b9a; font-size: 10px; line-height: 1.4; }
+#mark-count { color: #cc7666; white-space: nowrap; }
 @media (max-width: 920px) { .topbar { align-items: flex-start; flex-direction: column; } .tools { justify-content: flex-start; } }
 @media (max-width: 600px) { .topbar { padding: 13px; } .stage { min-height: 320px; padding: 15px; } footer { padding: 8px 13px; } }
 
-.board { border-radius: 10px; }
-button:focus-visible, select:focus-visible { outline: 2px solid #ef897a; outline-offset: 3px; }
+.board { border-radius: 5px; }
+button:focus-visible, select:focus-visible { outline: 2px solid #e95843; outline-offset: 3px; }

diff --git a/README.md b/README.md
@@ -32,7 +32,7 @@ The Sift reference screenshot in `assets/` is source material for that example. 
 
 ## Pump study
 
-**Pump · Dual band** is the initial design. **Pump · Spectral ducking** shows the companion spectral panel. Both use Pump's factory curve nodes and tension interpolation, a dark gray/coral palette, a larger 760 × 620 canvas, and grouped controls. The dual view has one crossover, 12/24 dB slopes, separate coral LP and blue HP mix sliders and solos. Both bands share one envelope. The spectral view has 24 illustrative spectrum bars, depth, attack, release and Volume/Depth envelope modes. These remain visual mockups; the spectrum is illustrative and the red brush collects feedback.
+**Pump · Dual band** is the initial design. **Pump · Spectral ducking** shows the companion spectral panel. Both use Pump's factory curve nodes and tension interpolation, Pump’s original dark gray/red-orange palette, a compact 640 × 400 canvas, thin borders, and flat controls. The dual-band controls occupy a single 29-pixel row beneath the quick slots. The dual view has one crossover, 12/24 dB slopes, a compact stacked group of coral LP and blue HP mix sliders with no thumb handles, plus solos. Both bands share one envelope. The spectral view has 24 illustrative spectrum bars, depth, attack, release and Volume/Depth envelope modes. These remain visual mockups; the spectrum is illustrative and the red brush collects feedback.
 
 Run `python3 scripts/build-standalone.py` to regenerate `frame-standalone.html`. That portable artifact embeds all styles and scripts and works in viewers that cannot load sibling files. Saved design selections still take precedence over the initial Pump view.
 
